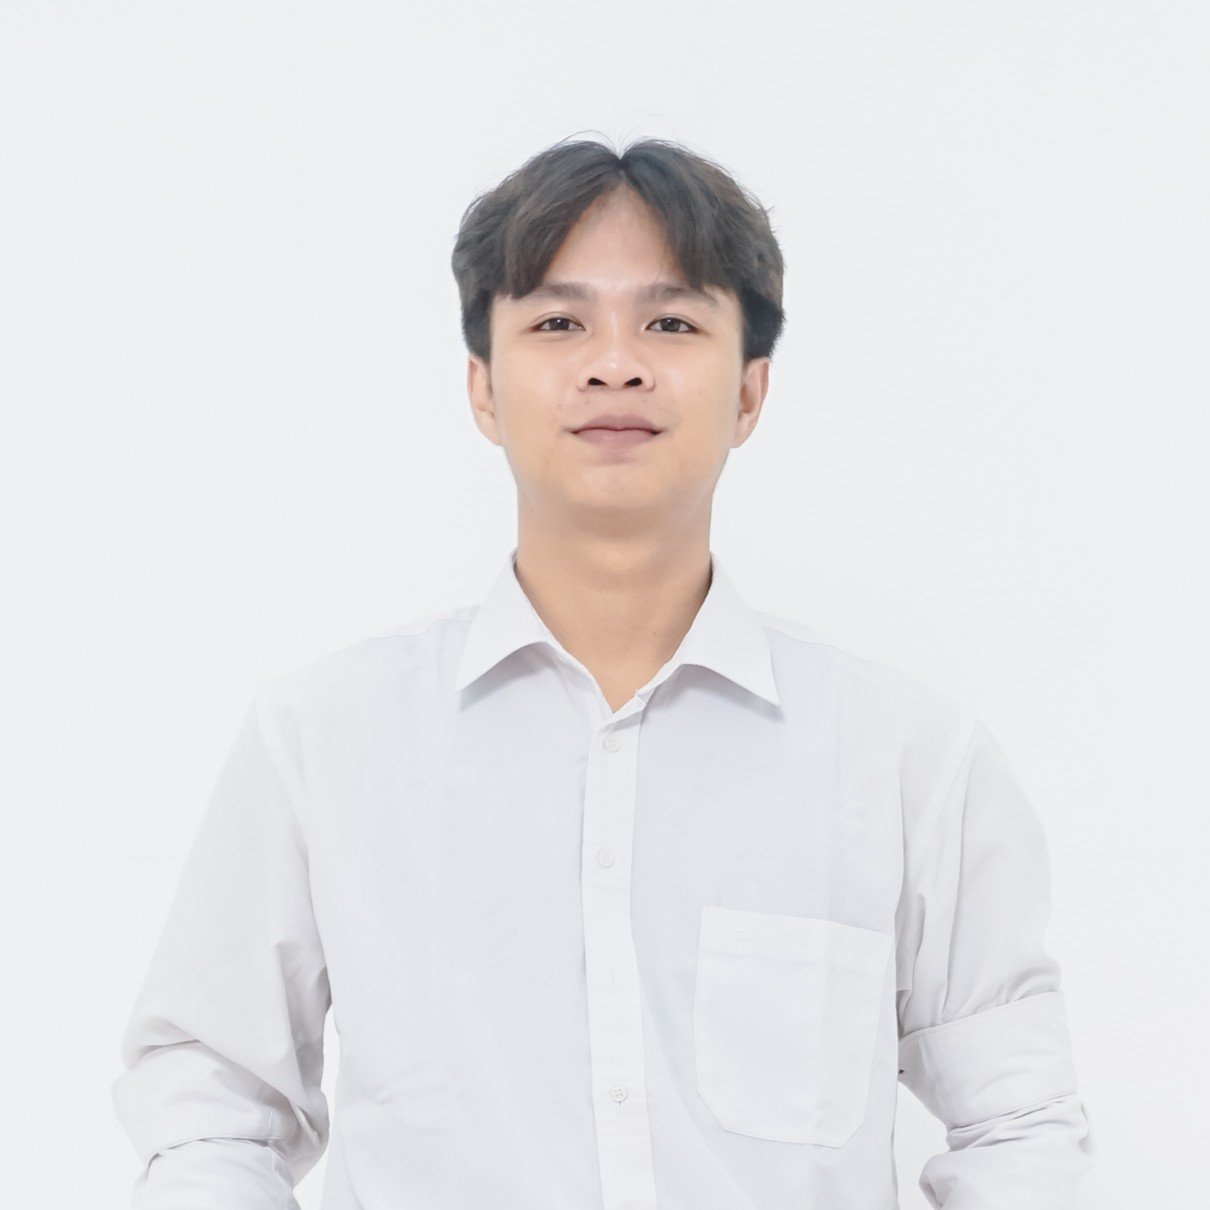
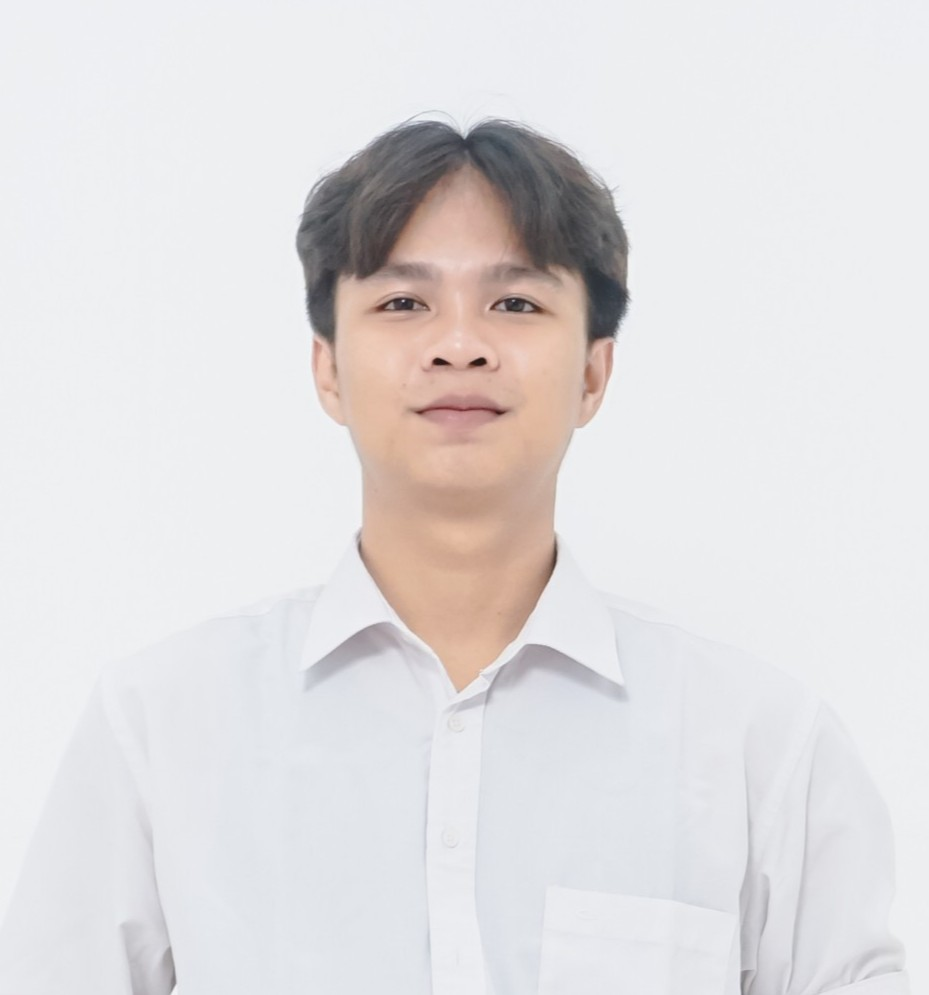
Add new project entries for Big Data Toolkit, Flood Impact Segmentation, and Operational Risk Analysis
- Created a detailed markdown file for the Big Data Toolkit project, outlining its deployment on GCP, performance metrics, and lessons learned.
- Added a markdown file for the Flood Impact Segmentation project, highlighting the model architecture, competition results, and key decisions made during development.
- Introduced a markdown file for the Operational Risk Analysis project, detailing the XGBoost model, feature engineering, and actionable insights derived from SHAP values.

diff --git a/src/content.config.ts b/src/content.config.ts
@@ -1,7 +1,15 @@
 import { defineCollection, z } from "astro:content";
 
 // Controlled vocabulary — one primary bucket per project (enables filtering).
-const CATEGORIES = ["Computer Vision", "NLP", "Full-stack", "Machine Learning"] as const;
+// Hybrid axis: some buckets are domain (CV/NLP/ML), others are the engineering
+// layer/role (Full-stack, Deployment & Infra) — kept consistent on purpose.
+const CATEGORIES = [
+  "Computer Vision",
+  "NLP",
+  "Full-stack",
+  "Machine Learning",
+  "Deployment & Infra",
+] as const;
 
 const projects = defineCollection({
   schema: z.object({

diff --git a/src/content/projects/screenai.md b/src/content/projects/screenai.md
@@ -1,48 +1,52 @@
 ---
 title: "ScreenAI"
 category: "NLP"
-tags: ["RAG", "LLM", "Explainability", "Full-stack"]
-summary: "AI recruitment screening that ranks candidates against a recruiter's rubric — with blind, bias-stripped scoring and cited evidence behind every decision. Capstone (team of 4); a production fork runs at MBC Laboratory."
+tags: ["RAG", "NER", "Explainable AI", "Blind Screening", "LLM"]
+summary: "AI recruitment screening that pairs NER-based blind screening with RAG competency scoring and Explainable AI to rank candidates fairly and transparently."
 featured: true
 order: 1
 status: "completed"
-timeframe: "2026 · 10 weeks"
-thumbnail: "/images/projects/Workflow sistem.png"
+timeframe: "2026 · 10-week capstone"
+thumbnail: "/images/projects/screenai.webp"
 metrics:
-  - { value: "440", label: "CVs ranked" }
-  - { value: "3-layer", label: "AI pipeline" }
-  - { value: "10 wk", label: "capstone build" }
-  - { value: "Prod", label: "deployed @ MBC Lab" }
+  - { value: "240", label: "real CVs evaluated" }
+  - { value: "4", label: "position rubrics" }
+  - { value: "3", label: "integrated AI mechanisms" }
 problem: |
-  Recruiters skim a CV in roughly 7 seconds, and keyword-only ATS tools rank without showing their reasoning — leaving unconscious bias unchecked and trust low. Manual screening is slow, inconsistent, and hard to audit.
-approach: |
-  A three-layer AI pipeline. First, blind screening uses IndoBERT NER to strip identity before any scoring. Second, competency matching uses a LangChain RAG pipeline to ground every ranking in a recruiter-defined rubric. Third, explainability ensures each score carries an evidence-based justification.
+  Manual recruitment fails in two intertwined ways. It is slow and expensive — recruiters spend an average of 7.4 seconds reviewing a single CV, while the cost per hire can reach USD 4,700 per position — and it is vulnerable to unconscious bias (affinity, halo, contrast) that quietly shapes who advances.
 
-  The backend is FastAPI with ChromaDB for rubric embeddings; the frontend is React + Vite + Tailwind. The system ingests 440 CVs and ranks them by rubric fit with transparent reasoning.
+  Commercial Applicant Tracking Systems do not close this gap. Most rely on keyword matching and give no transparency into why a candidate was scored the way they were, so recruiter trust in automated decisions stays low.
+approach: |
+  ScreenAI integrates three mechanisms that existing ATS tools rarely combine in one platform: NER-based blind screening, RAG competency evaluation, and Explainable AI scoring.
+
+  The pipeline runs end to end. PyMuPDF extracts and normalizes text from uploaded PDFs; an IndoBERT NER model detects and masks identity attributes (name, contact, institution, photo) to enforce blind screening; a LangChain RAG pipeline retrieves the recruiter-defined qualification rubric for the target role; and DeepSeek V3 scores the candidate per competency dimension, grounding every score in specific evidence from the CV.
+
+  Recruiters review ranked results in a FastAPI-backed dashboard that surfaces the XAI justification behind each score, generates a profile summary and interview questions, and supports manual override with an audit log.
 results: |
-  - Shipped as a capstone for a team of 4 within 10 weeks.
-  - A production fork now runs at MBC Laboratory for internal assistant recruitment.
-  - Blind screening removes identity signals before scoring.
-  - Every score cites the CV evidence it was based on, so recruiters can trust and audit it.
-role: "Team of 4 — owned the AI pipeline architecture: NER anonymization, RAG integration, and prompt engineering."
+  - Built a functional end-to-end pipeline — upload → extract → anonymize → retrieve rubric → score → rank — tested against a real internal dataset of 240 anonymized CVs across 4 roles (Cyber Security, Big Data, Game Technology, GIS).
+  - Implemented evidence-based XAI: every competency score links back to a quoted span from the CV, making each decision traceable and verifiable.
+  - Shipped a recruiter dashboard with ranking, manual override, and audit logging, plus auto-generated profile summaries and interview questions.
+  - Evaluated via binary classification against historical hiring ground truth, using Accuracy, Precision, Recall, and F1-Score as the primary metric (recall prioritized, since missing a strong candidate costs more than a correctable false positive).
+role: "Project Lead & AI Engineer — coordinated a 4-person team, architected and built the RAG + LangChain pipeline, owned LLM prompt engineering, and implemented the evidence-based XAI layer."
 architecture: |
-  Three sequential layers. (1) Blind screening — IndoBERT NER plus a regex fallback strips names, contacts, and ID numbers before scoring, so identity cannot bias the result. (2) Competency matching — a LangChain RAG pipeline grounds each score in a recruiter-defined rubric stored as ChromaDB embeddings. (3) Explainability — the scoring prompt returns strict JSON, and each score ships with cited evidence pulled from the CV.
+  A single LangChain-orchestrated pipeline chains four AI components. Document parsing (PyMuPDF) feeds an IndoBERT NER anonymizer, whose blind-screened text is embedded and matched against a vector store of recruiter rubrics. The retrieved rubric and the anonymized CV are composed into one prompt for DeepSeek V3, which returns structured JSON: per-dimension scores, evidence-based justifications, a profile summary, and interview questions. Results flow to the recruiter dashboard for ranking and override. The full analysis runs as a batch job once the recruitment window closes.
 decisions: |
-  - IndoBERT + regex, not either alone: NER models miss phone numbers, emails, and NIK/ID numbers; regex catches those structured patterns; IndoBERT handles Indonesian names, organizations, and locations. Together they make blind screening reliable.
-  - ChromaDB for rubric embeddings: rubrics are small (5–10 dimensions), so a local, file-based vector store is ideal — no external service dependency. Embeddings use sentence-transformers/all-MiniLM-L6-v2 for lightweight multilingual support.
-  - Structured JSON + retry logic: the scoring prompt enforces a strict schema; the backend validates with Zod and retries up to 3 times with progressively stricter prompts. Temperature 0 for deterministic output.
+  - DeepSeek V4 over GPT-4o-mini: comparable reasoning at $0.27/M input tokens — the most cost-efficient choice for batch-scoring hundreds of documents — and drop-in via an OpenAI-compatible endpoint, so no pipeline rewrite.
+  - IndoBERT NER over generic English NER: the CVs are predominantly Indonesian, so a model fine-tuned on Indonesian outperforms English-centric NER on local names and institutions.
+  - RAG over a pure LLM: grounding every score in a recruiter-defined rubric makes outputs verifiable and lets recruiters tune criteria without touching the pipeline.
+  - Structured JSON output: enforced on every LLM response to keep results programmatically reliable and reduce hallucination on non-standard documents.
 lessons: |
-  - Layered anonymization is non-negotiable: model-based NER alone lets pattern-based PII slip through. The regex fallback is essential in production.
-  - LLM output needs guardrails: without schema enforcement and retries, even capable models produce unusable output a meaningful fraction of the time.
-  - Users value speed over options: recruiters used exactly three flows (upload, dashboard, detail). The redesign stripped everything else.
+  - Ground-truth caveat: high accuracy against historical hiring decisions can mean the system is replicating past human bias rather than removing it — flagged as an explicit limitation and a future fairness-evaluation direction (demographic parity, equalized odds).
+  - Blind screening is necessary but not sufficient: masking identity removes one bias vector, but transparency (XAI) and human override are what actually earn recruiter trust.
 stack:
-  - "FastAPI"
-  - "React"
-  - "Vite"
-  - "IndoBERT"
+  - "Python"
   - "LangChain"
-  - "ChromaDB"
-  - "Tailwind CSS"
+  - "IndoBERT"
+  - "DeepSeek V4"
+  - "PyMuPDF"
+  - "FastAPI"
+  - "Hugging Face Transformers"
 links:
   github: "https://github.com/istgrudd/screenai"
+  demo: "https://screenai.my.id/"
 ---

diff --git a/src/content/projects/flood-segmentation.md b/src/content/projects/flood-segmentation.md
@@ -1,0 +1,51 @@
+---
+title: "Flood Impact Segmentation"
+category: "Computer Vision"
+tags: ["Semantic Segmentation", "Remote Sensing", "Disaster Response", "Class Imbalance"]
+summary: "A 10-class Swin Transformer + FPN model that maps flood impact from aerial imagery, built for the national Dolanan Data NEXUS 2026 competition — a Top-10 finalist entry."
+featured: true
+order: 3
+status: "completed"
+timeframe: "2026 · national competition"
+thumbnail: "/images/projects/flood-segmentation.webp"
+metrics:
+  - { value: "Top 10", label: "national finalist" }
+  - { value: "#6", label: "final private LB" }
+  - { value: "10", label: "segmentation classes" }
+problem: |
+  In a flood response, pixel-level maps of what is underwater matter: they let responders estimate affected area, prioritize locations, and make data-driven decisions. The task was semantic segmentation of aerial flood scenes into 10 classes — flooded vs. non-flooded buildings and roads, water, pools, grass, trees, vehicles, and background — scored on mean IoU.
+
+  Two things made it hard. The classes were severely imbalanced (water and vegetation dominate; vehicles and pools are tiny), and — the bigger issue I uncovered — the competition's ground-truth masks were noisy, which quietly capped how high any model could score.
+approach: |
+  I built a Swin Transformer encoder paired with a lightweight FPN decoder. The encoder's four multi-scale feature maps are projected to a common 256-channel space, smoothed, and decoded into 10-class logits at 384×384.
+
+  To fight the imbalance I combined three tactics: a Dice + Focal loss (0.7 / 0.3) with median-frequency class weights, a weighted sampler that oversamples rare-class images, and targeted external data — I pulled only the FloodNet images rich in the two most starved classes (non-flooded building and road), filtered to ≥5% pixel coverage, rather than dumping the whole set in.
+
+  Training used AdamW with cosine warm restarts and mixed precision; inference averaged four test-time augmentations (flips + 90° rotation) before RLE-encoding the masks.
+results: |
+  - Reached 9th on the semifinal private leaderboard over a 14-day qualifying round, advancing to the national final as a Top-10 team.
+  - In the one-day on-site final (9 hours of hackathon-style modeling + 6 hours of slides), my model placed 6th on the private leaderboard; the team finished 10th overall once the live presentation and Q&A were weighted in.
+  - Diagnosed the real performance ceiling: model swaps barely moved mIoU, and the entire final leaderboard sat within a ~10% spread from 1st to 10th (most teams under 2% apart) — a strong signal the limit was label quality, not architecture.
+role: "Technical lead — owned the full modeling pipeline end to end (data, architecture, loss, training, inference) for a 3-person team, with two first-year teammates supporting experiment runs and documentation during the on-site final."
+architecture: |
+  A Swin Transformer (swin_base_patch4_window12_384, pretrained, via timm) encoder feeds a small FPN decoder. The encoder's four feature levels pass through 1×1 lateral convolutions into a shared 256-channel space, get refined with conv-BN-ReLU smoothing blocks, and a compact head projects to the 10 class logits. Training ran in mixed precision (AMP) with AdamW and a cosine annealing warm-restart schedule, median-frequency class weighting, and a weighted sampler for imbalance. At inference, predictions from the original image plus three augmentations (horizontal flip, vertical flip, 90° rotation) are softmax-averaged, then run-length encoded for submission.
+decisions: |
+  - Diagnose before grinding: I started by reproducing a reference paper on the same dataset, but couldn't match its reported numbers. Tracing the gap, I concluded the competition's ground truth had been re-generated with SAM / Grounding DINO and was noisier than the paper's — so I pivoted to a pipeline tuned for robustness to label noise instead of chasing the paper's scores.
+  - Dice + Focal over plain cross-entropy: Dice optimizes region overlap (good for imbalance), Focal down-weights easy pixels and emphasizes rare classes — the right pairing for a 10-class scene with tiny minority classes.
+  - Surgical external data: FloodNet was used only for the two starved classes and filtered by pixel coverage; class weights were estimated from the competition stats, not the merged set, because FloodNet's ~55% grass would have skewed the weighting.
+  - Test-time augmentation: a cheap, reliable accuracy bump given the model was already near the data-imposed ceiling.
+lessons: |
+  - The ceiling was the labels, not the model: when no architecture meaningfully beats another and the whole leaderboard clusters within a few percent, the bottleneck is the data. Recognizing that early would have saved experiment cycles — a lesson I now apply before optimizing any model.
+  - Competitions score more than code: the model ranked 6th, but the team placed 10th once presentation and Q&A counted. The communication and the write-up are part of the deliverable, not an afterthought.
+  - Leading a mixed-experience team means matching tasks to readiness — I kept the core modeling and handed experiment-running and documentation to teammates earlier in their studies.
+stack:
+  - "Python"
+  - "PyTorch"
+  - "timm"
+  - "Swin Transformer"
+  - "segmentation-models-pytorch"
+  - "Albumentations"
+  - "OpenCV"
+links:
+  github: "#"
+---

diff --git a/src/content/projects/lablink.md b/src/content/projects/lablink.md
@@ -1,35 +1,53 @@
 ---
 title: "LabLink"
 category: "Full-stack"
-tags: ["Internal tooling", "Infrastructure"]
-summary: "Internal information system for MBC Laboratory — one governed home for data that used to sprawl across dozens of Google Docs. Designed and built solo, adopted across all four divisions."
+tags: ["Internal Tooling", "Self-hosted", "Information System"]
+summary: "A centralized internal system for MBC Laboratory — members, inventory, on-call rosters, attendance, and a transparent cash ledger — replacing a sprawl of scattered docs, drives, and spreadsheets."
 featured: true
 order: 2
 status: "completed"
-timeframe: "2025–2026"
+timeframe: "2026 · 3-month build"
+thumbnail: "/images/projects/lablink.webp"
 metrics:
-  - { value: "Solo", label: "end-to-end build" }
-  - { value: "4", label: "divisions adopted" }
-  - { value: "1", label: "source of truth" }
+  - { value: "54", label: "active assistants" }
+  - { value: "6", label: "core modules" }
+  - { value: "2 week", label: "handoff to live" }
 problem: |
-  Lab records at MBC Laboratory were fragmented across many Google Docs and sheets — hard to find, easy to duplicate, impossible to trust as a single source of truth. Divisions had no shared system for governance, knowledge management, or institutional memory.
-approach: |
-  Designed and built a web platform from scratch that centralizes lab data into one governed, searchable system shared across all four divisions.
+  MBC Laboratory's data lived everywhere and nowhere — scattered across Google Docs, Drive folders, and spreadsheets. Assistants lost time hunting for whatever they needed, and there was no single transparent view of shared essentials like the cash balance, on-call rosters, attendance, or member records.
 
-  Frontend: React + Vite + Tailwind CSS + shadcn/ui. Backend: FastAPI with PostgreSQL via Supabase. The platform covers user management, project tracking, a knowledge base, and per-division dashboards.
+  I started LabLink to fix that: one place where any assistant can find lab data, and where money, schedules, and membership are visible to everyone instead of locked in one person's files.
+approach: |
+  LabLink centralizes lab operations into a single internal system. Under one dashboard it brings together member management, inventory with low-stock restock alerts, on-call rostering, TechRoadmap training attendance via QR check-in plus an activity leaderboard, and a transparent cash ledger with dues tracking — all backed by an activity log for accountability.
+
+  The whole thing is self-hosted on the lab's own hardware: a FastAPI backend and a React + Vite + Tailwind + shadcn/ui frontend over a trimmed Supabase stack, exposed through a Cloudflare Tunnel.
 results: |
-  - Replaced dozens of fragmented Google Docs and spreadsheets with a single source of truth.
-  - Adopted across all four divisions of MBC Laboratory.
-  - Built solo — full ownership from architecture through deployment and lab-wide rollout.
-role: "Solo developer — full-stack architecture, database design, UI/UX, deployment, and driving lab-wide adoption."
+  - Live in production and in active use by the lab's 54 assistants, with adoption still ramping as the team transitions off the old scattered workflow.
+  - Replaced a sprawl of Docs, Drive folders, and spreadsheets with a single source of truth for members, inventory, on-call, attendance, and finances.
+  - Made lab finances fully transparent — balance, dues status, and history visible to every assistant rather than locked in one person's spreadsheet.
+  - Built solo end to end, then handed to the lab's technical-support division and live within two weeks of handoff.
+role: "Sole developer of the initial system — product design, FastAPI backend, React/Vite frontend, and self-hosted deployment — before handing it to the lab's technical-support division to refine and extend."
+architecture: |
+  LabLink runs entirely on MBC Lab's own infrastructure. A FastAPI backend and a React + Vite + Tailwind + shadcn/ui frontend sit on top of a trimmed, self-hosted Supabase stack (PostgreSQL + auth), all running inside an Ubuntu Server VM on the lab's Proxmox host. Because the campus network offers no public IP, the app is exposed through a Cloudflare Tunnel, with the domain managed on Cloudflare. The result is a zero-hosting-cost system that keeps every byte of lab data on hardware the lab controls.
+decisions: |
+  - Resource-fit stack: picked a lightweight FastAPI + React/Vite stack specifically so the whole system runs comfortably on the lab's existing server, rather than a heavier framework the available hardware couldn't sustain in production.
+  - Self-hosted on lab infrastructure: keeping data on lab-owned hardware avoids recurring hosting costs and keeps sensitive member and finance data in-house.
+  - Cloudflare Tunnel over a public IP: the campus network has no public IP, so a tunnel exposes the service securely without opening the server to the internet directly.
+  - Trimmed Supabase: self-host only the components actually needed (Postgres + auth) to keep the footprint light on shared lab hardware.
+lessons: |
+  - The hard part isn't the CRUD, it's the schema: most modules are straightforward CRUD, but the real engineering challenge sits in the data model behind the upcoming Project & Event features — many-to-many relationships and heavy joins that need a clean schema from day one (in progress).
+  - Shipping is not adoption: the system is live, but assistants are still adapting to it, so rollout and change management matter as much as the build itself.
+  - Build for handoff: developing solo and then handing off to the technical-support division made maintainability and clear structure a first-class concern, not an afterthought.
 stack:
+  - "Python"
+  - "FastAPI"
   - "React"
   - "Vite"
   - "Tailwind CSS"
   - "shadcn/ui"
-  - "FastAPI"
-  - "PostgreSQL"
   - "Supabase"
+  - "PostgreSQL"
+  - "Cloudflare Tunnel"
+  - "Proxmox"
 links:
   github: "#"
 ---

diff --git a/src/content/projects/big-data-toolkit.md b/src/content/projects/big-data-toolkit.md
@@ -1,0 +1,48 @@
+---
+title: "Big Data Toolkit"
+category: "Deployment & Infra"
+tags: ["Containerization", "Monitoring", "Performance", "Education"]
+summary: "Scaling and deploying MBC Lab's no-code ML-lifecycle teaching toolkit — a Streamlit app that collapsed past one user on a free tier — onto a GCP VM that served the whole study group."
+featured: false
+order: 4
+status: "completed"
+timeframe: "2026 · study-group tool"
+thumbnail: "/images/projects/big-data-toolkit.png"
+metrics:
+  - { value: "70", label: "learners served" }
+  - { value: "~30", label: "peak concurrent users" }
+  - { value: "16×", label: "RAM over free tier" }
+problem: |
+  Big Data Toolkit is a no-code teaching tool that walks beginners through the full machine-learning lifecycle — from data preparation to modeling to generating a submission CSV — so study-group participants can focus on understanding concepts instead of fighting code. It is an existing, IP-registered lab project; my cohort inherited it for maintenance.
+
+  The blocker was hosting. On Streamlit's free tier (~1GB RAM) the app could effectively serve only one user at a time — past that, it went down. For a study group of dozens, that made it unusable exactly when it was needed.
+approach: |
+  My contribution was everything from refinement through deployment. I containerized the Streamlit app with Docker and deployed it as a monolith on a single GCP Compute Engine VM (16GB RAM, ~4 vCPU), behind a custom domain the division purchased. Along the way I optimized code paths, added caching to cut redundant recomputation, fixed a string of performance bugs surfaced by real users, and set up monitoring to watch resource use under load.
+
+  RAM was provisioned generously — well above measured usage — to absorb the concurrency spike near assignment deadlines, planning for roughly 30 active users at peak. A teammate handled feature additions and UI improvements; I owned the deployment side.
+results: |
+  - Took the app from "dies past one user" on the free tier to serving the full ~70-person study group, with up to ~30 concurrent users at peak, without crashing.
+  - Resolved a wave of post-launch bugs and lag complaints that only appeared under real, concurrent use.
+  - Stood up monitoring to confirm the VM had resource headroom under load.
+  - Retired the deployment cleanly after the program week — VM and domain taken down to control cloud cost, since the active window was short.
+role: "Refinement & deployment owner. The toolkit itself is an existing, IP-registered lab project from a former division head; in my cohort it was maintained by two people. I handled code optimization, caching, containerization, performance debugging, GCP deployment, and monitoring — a teammate handled new features and UI."
+architecture: |
+  A deliberately simple, monolithic deployment: the Streamlit app containerized with Docker and run on one GCP Compute Engine VM (16GB RAM, ~4 vCPU), reachable through a purchased custom domain. Streamlit caching reduced recomputation, and Cloud Monitoring tracked CPU and memory under load. There was no autoscaling or CI/CD — a scope-appropriate choice for a one-week program — and the whole stack was torn down once the program ended.
+decisions: |
+  - Single-VM monolith over serverless or a cluster: the simplest path to a stable, full-control environment for a short-lived program, with no CI/CD overhead I didn't yet need.
+  - Generous RAM headroom (16GB): provisioned far above observed usage to absorb peak concurrency around deadlines, rather than risk the free-tier failure mode.
+  - Caching + containerization: cut repeated recomputation and made the runtime reproducible across redeploys.
+  - Tear down on schedule: with a roughly one-week usage window, keeping the VM and domain alive afterward wasn't worth the cloud credit — so it was deliberately retired.
+lessons: |
+  - Deployment is not the finish line: going live opened a second wave of work — bug reports, lag complaints, and Streamlit resetting all progress on every refresh. Production is where the real feedback starts, not where it ends. (A full write-up of this is worth its own blog post.)
+  - Some bottlenecks are architectural, not resource-based: even with 16GB RAM and healthy monitoring metrics, the app still felt slow. My read is that Streamlit's re-run-on-every-interaction model doesn't scale gracefully outside its own hosting — so the real fix would be application-level, not just bigger hardware. (A hypothesis, not a settled conclusion.)
+  - Right-size for lifespan: for a one-week tool, a simple VM that gets torn down afterward beat over-investing in autoscaling or pipelines.
+stack:
+  - "Python"
+  - "Streamlit"
+  - "Docker"
+  - "GCP Compute Engine"
+  - "Google Cloud Monitoring"
+links:
+  github: "#"
+---

diff --git a/src/content/projects/operational-risk-analysis.md b/src/content/projects/operational-risk-analysis.md
@@ -1,0 +1,43 @@
+---
+title: "Operational Risk Analysis"
+category: "Machine Learning"
+tags: ["Classification", "Explainable AI", "SHAP", "Feature Engineering", "Risk Analysis"]
+summary: "XGBoost model that predicts job-level risk (completed / delayed / failed) on a hybrid manufacturing line, with SHAP turning predictions into actionable maintenance and scheduling insight."
+featured: false
+order: 5
+status: "completed"
+timeframe: "2026 · course project"
+thumbnail: "/images/projects/operational-risk-analysis.webp"
+metrics:
+  - { value: "92.5%", label: "test accuracy" }
+  - { value: "0.928", label: "weighted F1" }
+  - { value: "1,000", label: "production jobs" }
+problem: |
+  A hybrid manufacturing line ran 1,000 production jobs across 5 machines (M01–M05) and 5 operation types (Lathe, Grinding, Milling, Additive, Drilling). Nearly a third of jobs did not complete cleanly — 19.8% were delayed and 12.9% failed — pointing to significant operational risk.
+
+  The goal was to identify which production factors drive delays and failures, so scheduling, machine maintenance, and resource allocation could be targeted where they actually matter.
+approach: |
+  I framed this as a 3-class classification problem (Completed / Delayed / Failed) using XGBoost, chosen for its strength on small-to-medium tabular data, native multi-class support, robustness to outliers, and full SHAP compatibility for explainability.
+
+  The model used 7 input features, three of them engineered from raw timestamp columns: Scheduled_Duration, Start_Delay, and a composite Risk_Score (availability, energy, material, delay). It was tuned with 200 estimators, max depth 5, and a 0.08 learning rate, then validated with a stratified 80/20 split and 5-fold Stratified K-Fold cross-validation.
+
+  SHAP values were used throughout to interpret each feature's contribution per class and turn the model into actionable insight rather than a black box.
+results: |
+  - Reached 92.5% test accuracy and 92.4% mean cross-validation accuracy with a 0.928 weighted F1 — stable across folds.
+  - Per-class performance was sharp where patterns were distinctive (Delayed F1 = 1.000) and weakest where Failed and Completed jobs overlapped on technical factors (Failed F1 = 0.737).
+  - SHAP identified Start_Delay as the single dominant risk driver (importance 2.586, far above any other feature): delayed jobs averaged +20.15 min start delay versus −0.15 min for completed ones.
+  - The composite Risk_Score worked as an effective early-warning indicator (avg 9.42 for delayed vs ~7.6 for the other classes).
+  - Pinpointed Machine M03 and the Drilling operation as the highest-risk combination, and showed that failures stem from intrinsic machine/material conditions rather than scheduling — a direct case for preventive maintenance over schedule tweaks.
+role: "Owned the full analysis — feature engineering, XGBoost modeling and tuning, SHAP-based interpretation, and translating the results into operational recommendations."
+stack:
+  - "Python"
+  - "XGBoost"
+  - "SHAP"
+  - "scikit-learn"
+  - "pandas"
+  - "Matplotlib"
+links:
+  github: "#"
+  demo: "#"
+  paper: "#"
+---

diff --git a/CONTENT_GUIDE.md b/CONTENT_GUIDE.md
@@ -86,8 +86,11 @@ links:                             # "#" atau dikosongkan = tombol disembunyikan
 
 Aturan:
 - Path **selalu diawali `/`** dan **tanpa `public/`** (mis. `/images/projects/x.png`, bukan `public/images/...`).
-- **Hindari spasi** di nama file (pakai `nama-file.png`, bukan `Nama File.png`).
-- Optimalkan ukuran (WebP/PNG, lebar ~1200px cukup untuk thumbnail) demi performa.
+- **Format bebas** — `.webp`, `.avif`, `.png`, `.jpg` semua didukung (WebP/AVIF paling ringan, disarankan).
+- **Ekstensi di frontmatter HARUS sama persis dengan nama file asli.** Kalau filenya `screenai.webp`
+  tapi frontmatter menulis `screenai.png`, gambarnya 404 (tidak muncul) — ini penyebab tersering.
+- **Hindari spasi** di nama file (pakai `nama-file.webp`, bukan `Nama File.webp`).
+- Optimalkan ukuran (lebar ~1200px cukup untuk thumbnail) demi performa.
 
 ---
 

diff --git a/src/content/projects/face-spoofing-detection.md b/src/content/projects/face-spoofing-detection.md
@@ -4,7 +4,7 @@ category: "Computer Vision"
 tags: ["Anti-spoofing", "Transfer Learning"]
 summary: "CLIP ViT-L/14 fine-tuned for face anti-spoofing, using Focal Loss and weighted sampling to handle heavy class imbalance between genuine and presentation-attack samples."
 featured: false
-order: 4
+order: 5
 status: "completed"
 timeframe: "2025"
 problem: |